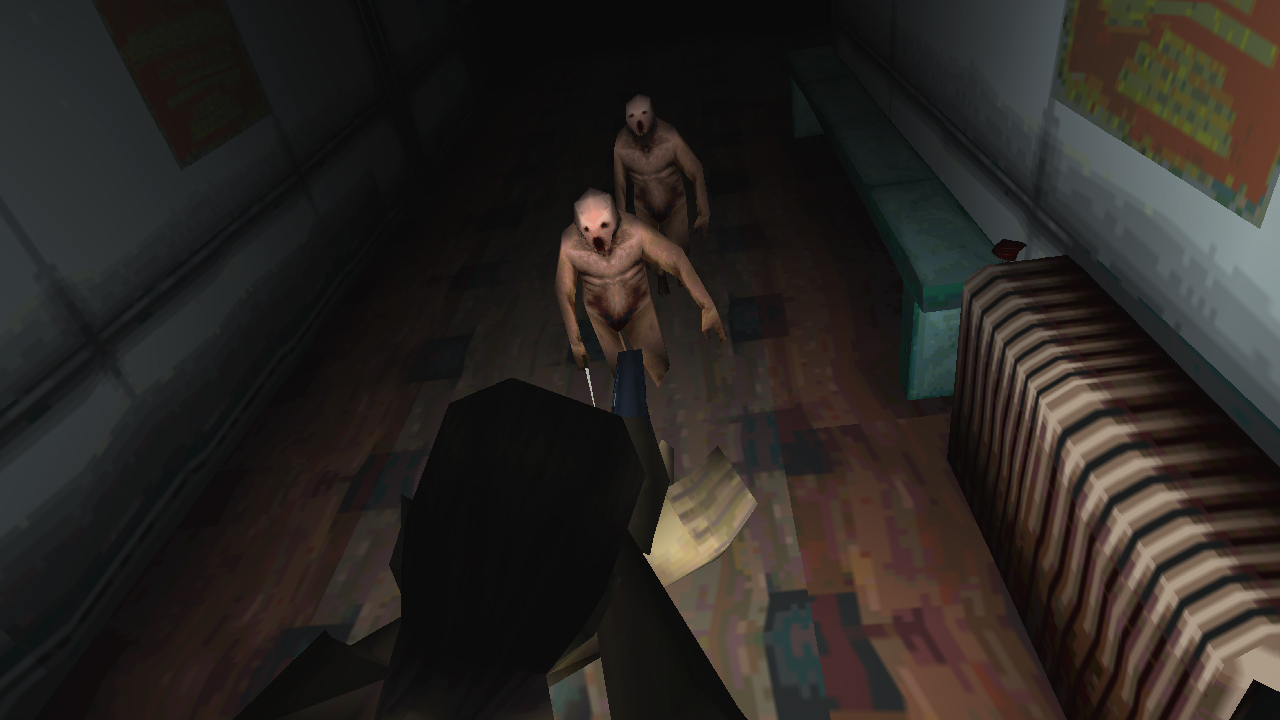
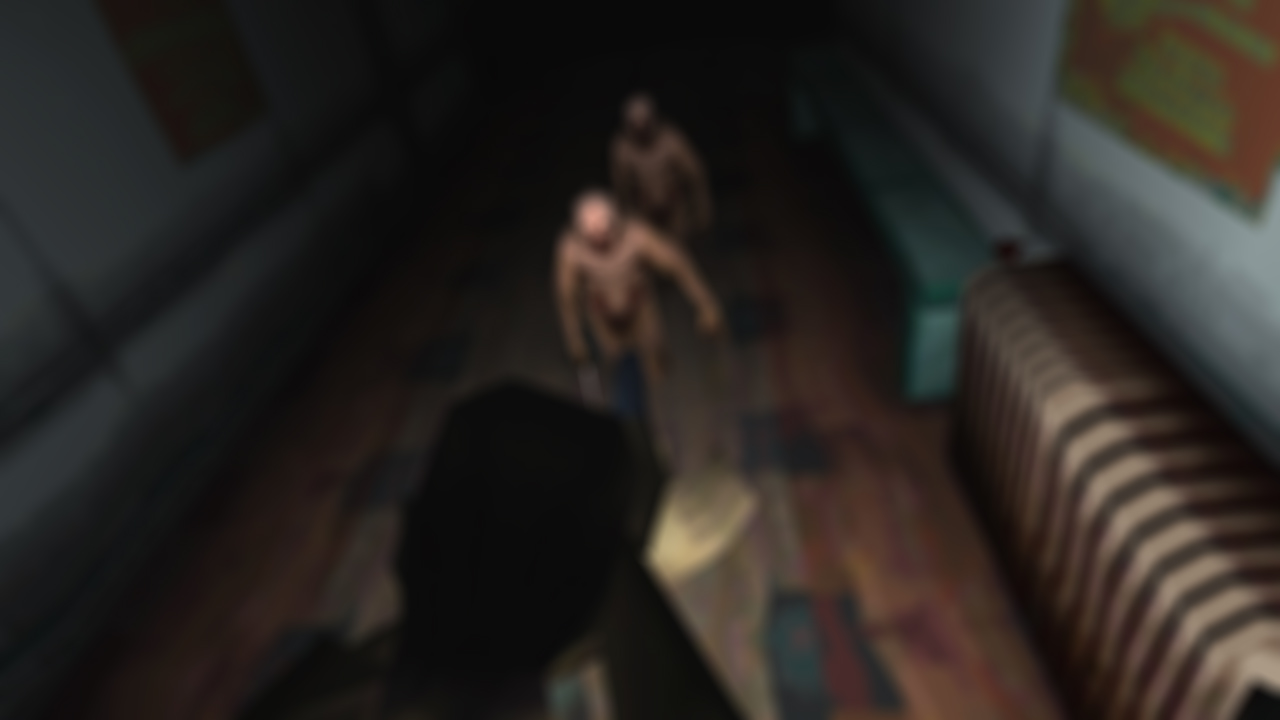
Melhoria nas imagens de fundo.

diff --git a/ContTraduSilent/traduSilent.js b/ContTraduSilent/traduSilent.js
@@ -4,10 +4,10 @@ import particles from "../particulas/particles.js";
 
 let topoMenu;
 function traduSilentFunctions() {
-    const titulo = getElement("titulo"), info = getElement("info"),
-        traprogress = getElement("traprogress"), textos = getAllElementsClass("texto"),
-        bttverdetalhes = getElement("bttverdetalhes"), telaSlideCarrosel = getAllElementsClass("telaslide"),
-        imgTrad = getAllElementsClass("imgtrad"), slides = getAllElementsClass("slides"),
+    const titulo = getElement("titulo"), info = getElement("info"), traprogress = getElement("traprogress"),
+        textos = getAllElementsClass("texto"), bttverdetalhes = getElement("bttverdetalhes"),
+        telaSlideCarrosel = getAllElementsClass("telaslide"), imgTrad = getAllElementsClass("imgtrad"),
+        slides = getAllElementsClass("slides"),
         tempoTransicao = 700, styletransicao = "height " + tempoTransicao + "ms ease-in-out";//Armazena a configuração da transição dos slides.
     const proporcao4por3 = 4 / 3;
     let numSlide = 0, contCarrosel = 0, fundoComparacaoAberto = false, mouseTexto = false, imgVisivel = false, mudarCarrosel = true;
@@ -105,7 +105,6 @@ function traduSilentFunctions() {
         setStyle(traprogress, { marginTop: larguraJanela <= 650 ? "13px" : "0px" })
         ajustarElementos();
         ajustarimgscomparacao();
-        ajustarBlurFundo();
         mudarMenu();
     });
 
@@ -200,8 +199,7 @@ function traduSilentFunctions() {
     }
 
     function carregamento() {//Faz os elementos do primeiro "slide" aparecerem e após isso permite trocar de slide.
-        setStyle(getElement("conteudoSlide1"), { opacity: "1" });
-        ajustarBlurFundo();
+        setStyle(getElement("conteudoSlide1"), { opacity: null });
         setStyle(info, { display: "block" });
         setStyle(traprogress, { display: "block" });
         tmp = setInterval(brilhotitulo, 1250);
@@ -328,7 +326,7 @@ function traduSilentFunctions() {
             setTimeout(() => {
                 setStyle(icones[numSlide], { opacity: "1" });
                 for (let i = 0; i < icones.length; i++) {
-                    if (i != numSlide) { setStyle(icones[1], { opacity: null, border: null }); }
+                    if (i != numSlide) { setStyle(icones[i], { opacity: null, border: null }); }
                     setStyle(slides[i], { transition: null });
                 }
                 setStyle(contentIcones, { transition: null });
@@ -421,10 +419,6 @@ function traduSilentFunctions() {
             if (sessao[i].comparacao) { setStyle(sessao[i].comparacao.abre, { width: largura }); }
         }
     }
-    function ajustarBlurFundo() {
-        const num = (larguraJanela > alturaJanela ? larguraJanela : alturaJanela) / 333;
-        for (let i = 0; i < sessao.length; i++) { setStyle(sessao[i].imagem, { filter: "blur(" + num + "px)" }); }
-    }
     function scrollTextoMudarSlide(e) {
         const el = e.currentTarget;
         if (e.deltaY > 0) {
@@ -432,7 +426,7 @@ function traduSilentFunctions() {
         } else { mouseTexto = el.scrollTop === 0 ? false : true; }
     }
     ajustarimgscomparacao();
-    setTimeout(carregamento, 900);
+    setTimeout(carregamento, 800);
 }
 
 export default async function traduSilent() {

diff --git a/traducao_Silent_Hill.html b/traducao_Silent_Hill.html
@@ -31,8 +31,8 @@
         <canvas data-id="particulas"></canvas>
     </div>
     <header data-id="sessao1" class="sessao">
-        <div data-id="fundo1" style="filter: blur(0px);" class="fundo"></div>
-        <div data-id="conteudoSlide1" class="mycontainer">
+        <div data-id="fundo1" class="fundo"></div>
+        <div data-id="conteudoSlide1" style="opacity: 0" class="mycontainer">
             <div class="content">
                 <h1 data-id="titulo">Tradução Silent Hill (PS1)</h1>
                 <div data-id="about">

diff --git a/ContTraduSilent/traduSilent.css b/ContTraduSilent/traduSilent.css
@@ -7,8 +7,7 @@ html, body {
 }
 
 [data-id="conteudoSlide1"] {
-    opacity: 0;
-    transition: opacity 1.5s linear;
+    transition: opacity 2s ease-in-out;
 }
 
 [data-id="fundo1"] {
@@ -450,7 +449,6 @@ p span:hover, p a:hover, li a:hover {
     z-index: 0;
     background-size: cover;
     background-position: center;
-    transition: filter 2s linear;
 }
 
 .tracosetaleft1 {
